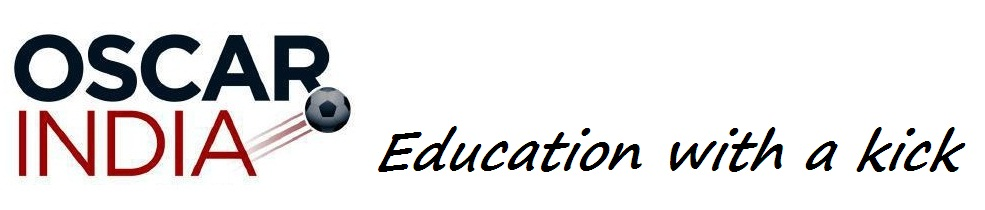
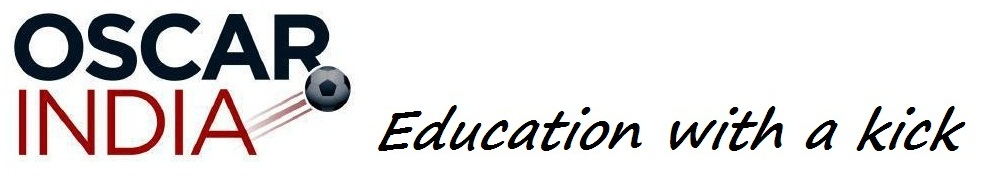
Subscription feature added

diff --git a/app/assets/stylesheets/styles.css.scss b/app/assets/stylesheets/styles.css.scss
@@ -8,13 +8,15 @@ html{
 }
 
 body{
-    padding-top: 1%;
     height: 95%;
 
 }
 
+a:visited {
+color: white;
+}
+
 .tagline{
-    padding-top:5%;
         text-align: center;
     vertical-align: center;
     color:black;

diff --git a/app/assets/stylesheets/subscribers.css.scss b/app/assets/stylesheets/subscribers.css.scss
@@ -1,0 +1,3 @@
+// Place all the styles related to the Subscribers controller here.
+// They will automatically be included in application.css.
+// You can use Sass (SCSS) here: http://sass-lang.com/

diff --git a/app/controllers/subscribers_controller.rb b/app/controllers/subscribers_controller.rb
@@ -1,0 +1,83 @@
+class SubscribersController < ApplicationController
+  # GET /subscribers
+  # GET /subscribers.json
+  def index
+    @subscribers = Subscriber.all
+
+    respond_to do |format|
+      format.html # index.html.erb
+      format.json { render json: @subscribers }
+    end
+  end
+
+  # GET /subscribers/1
+  # GET /subscribers/1.json
+  def show
+    @subscriber = Subscriber.find(params[:id])
+
+    respond_to do |format|
+      format.html # show.html.erb
+      format.json { render json: @subscriber }
+    end
+  end
+
+  # GET /subscribers/new
+  # GET /subscribers/new.json
+  def new
+    @subscriber = Subscriber.new
+
+    respond_to do |format|
+      format.html # new.html.erb
+      format.json { render json: @subscriber }
+    end
+  end
+
+  # GET /subscribers/1/edit
+  def edit
+    @subscriber = Subscriber.find(params[:id])
+  end
+
+  # POST /subscribers
+  # POST /subscribers.json
+  def create
+    @subscriber = Subscriber.new(params[:subscriber])
+
+    respond_to do |format|
+      if @subscriber.save
+        format.html { redirect_to @subscriber, notice: 'Subscriber was successfully created.' }
+        format.json { render json: @subscriber, status: :created, location: @subscriber }
+      else
+        format.html { render action: "new" }
+        format.json { render json: @subscriber.errors, status: :unprocessable_entity }
+      end
+    end
+  end
+
+  # PUT /subscribers/1
+  # PUT /subscribers/1.json
+  def update
+    @subscriber = Subscriber.find(params[:id])
+
+    respond_to do |format|
+      if @subscriber.update_attributes(params[:subscriber])
+        format.html { redirect_to @subscriber, notice: 'Subscriber was successfully updated.' }
+        format.json { head :no_content }
+      else
+        format.html { render action: "edit" }
+        format.json { render json: @subscriber.errors, status: :unprocessable_entity }
+      end
+    end
+  end
+
+  # DELETE /subscribers/1
+  # DELETE /subscribers/1.json
+  def destroy
+    @subscriber = Subscriber.find(params[:id])
+    @subscriber.destroy
+
+    respond_to do |format|
+      format.html { redirect_to subscribers_url }
+      format.json { head :no_content }
+    end
+  end
+end

diff --git a/test/functional/subscribers_controller_test.rb b/test/functional/subscribers_controller_test.rb
@@ -1,0 +1,49 @@
+require 'test_helper'
+
+class SubscribersControllerTest < ActionController::TestCase
+  setup do
+    @subscriber = subscribers(:one)
+  end
+
+  test "should get index" do
+    get :index
+    assert_response :success
+    assert_not_nil assigns(:subscribers)
+  end
+
+  test "should get new" do
+    get :new
+    assert_response :success
+  end
+
+  test "should create subscriber" do
+    assert_difference('Subscriber.count') do
+      post :create, subscriber: { email_id: @subscriber.email_id }
+    end
+
+    assert_redirected_to subscriber_path(assigns(:subscriber))
+  end
+
+  test "should show subscriber" do
+    get :show, id: @subscriber
+    assert_response :success
+  end
+
+  test "should get edit" do
+    get :edit, id: @subscriber
+    assert_response :success
+  end
+
+  test "should update subscriber" do
+    put :update, id: @subscriber, subscriber: { email_id: @subscriber.email_id }
+    assert_redirected_to subscriber_path(assigns(:subscriber))
+  end
+
+  test "should destroy subscriber" do
+    assert_difference('Subscriber.count', -1) do
+      delete :destroy, id: @subscriber
+    end
+
+    assert_redirected_to subscribers_path
+  end
+end

diff --git a/db/schema.rb b/db/schema.rb
@@ -11,7 +11,13 @@
 #
 # It's strongly recommended to check this file into your version control system.
 
-ActiveRecord::Schema.define(:version => 20130404215111) do
+ActiveRecord::Schema.define(:version => 20130405170605) do
+
+  create_table "subscribers", :force => true do |t|
+    t.string   "email_id"
+    t.datetime "created_at", :null => false
+    t.datetime "updated_at", :null => false
+  end
 
   create_table "tweets", :force => true do |t|
     t.string   "content"

diff --git a/db/migrate/20130405170605_create_subscribers.rb b/db/migrate/20130405170605_create_subscribers.rb
@@ -1,0 +1,9 @@
+class CreateSubscribers < ActiveRecord::Migration
+  def change
+    create_table :subscribers do |t|
+      t.string :email_id
+
+      t.timestamps
+    end
+  end
+end

diff --git a/test/unit/subscriber_test.rb b/test/unit/subscriber_test.rb
@@ -1,0 +1,7 @@
+require 'test_helper'
+
+class SubscriberTest < ActiveSupport::TestCase
+  # test "the truth" do
+  #   assert true
+  # end
+end

diff --git a/config/routes.rb b/config/routes.rb
@@ -1,4 +1,7 @@
 Oscarwebsite::Application.routes.draw do
+  resources :subscribers
+
+
   resources :tweets
 
 

diff --git a/test/unit/helpers/subscribers_helper_test.rb b/test/unit/helpers/subscribers_helper_test.rb
@@ -1,0 +1,4 @@
+require 'test_helper'
+
+class SubscribersHelperTest < ActionView::TestCase
+end

diff --git a/app/models/subscriber.rb b/app/models/subscriber.rb
@@ -1,0 +1,3 @@
+class Subscriber < ActiveRecord::Base
+  attr_accessible :email_id
+end

diff --git a/app/helpers/subscribers_helper.rb b/app/helpers/subscribers_helper.rb
@@ -1,0 +1,2 @@
+module SubscribersHelper
+end
